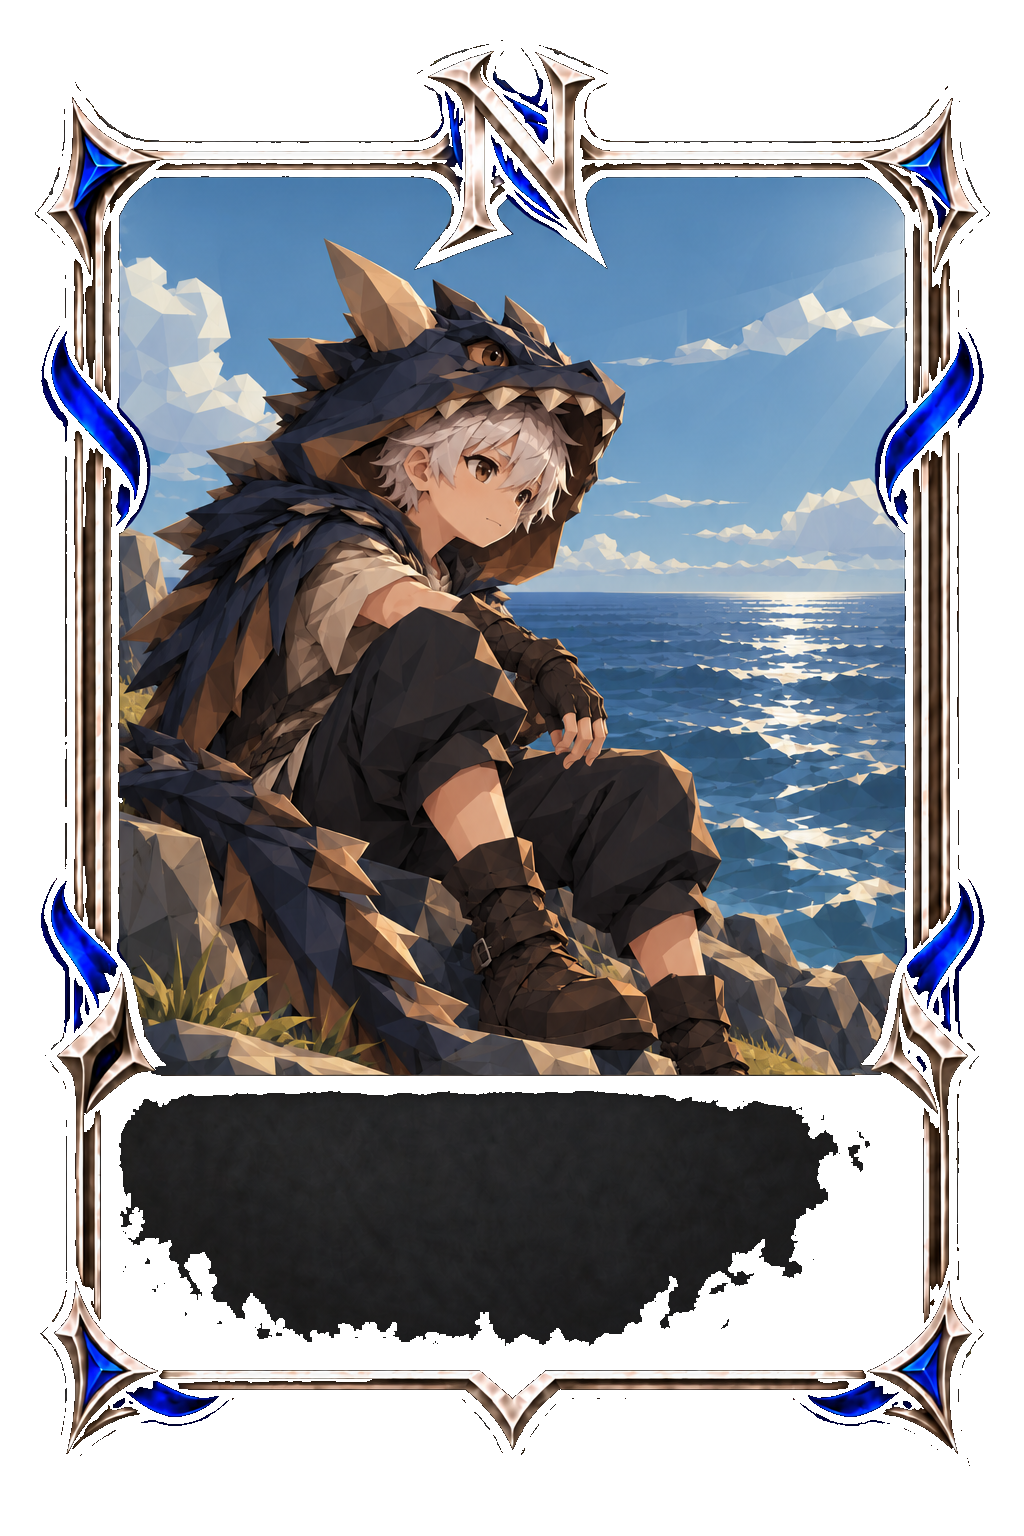
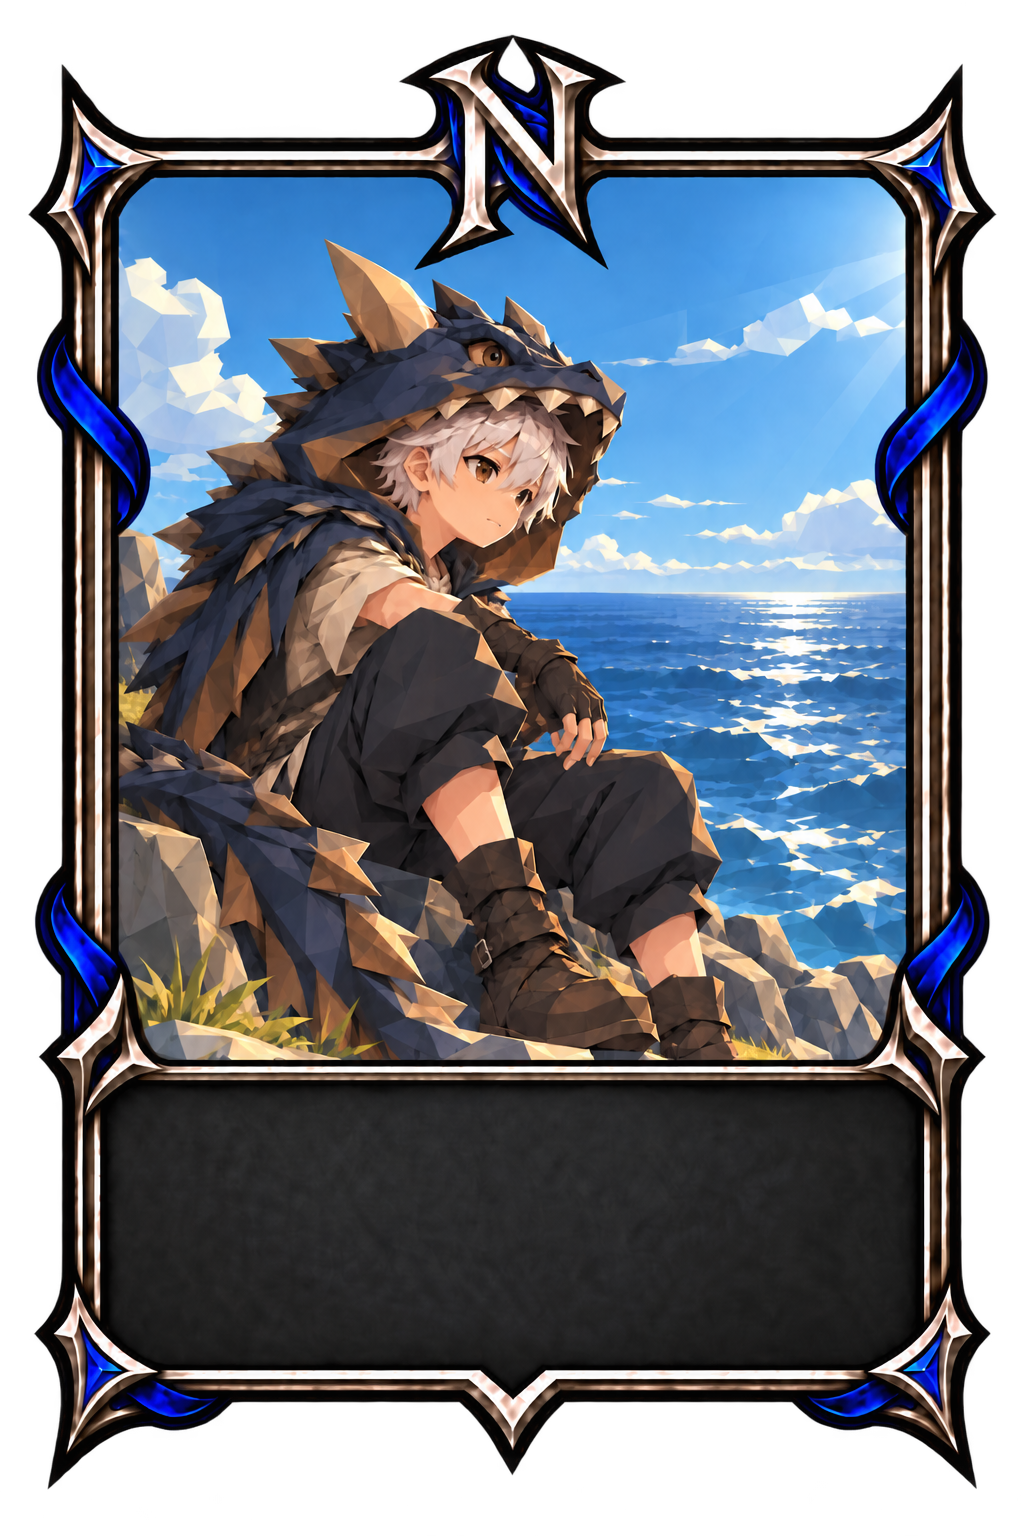
Boutique : nouveau hall et fond des échoppes ; les fonds s'arrêtent à la barre latérale ; images d'Elyan et Kaéliss

diff --git a/src/styles/boutique-accueil.css b/src/styles/boutique-accueil.css
@@ -5,13 +5,13 @@
    sous la lune, bannières à pointe, facettes, un seul accent ambre, équerres dorées.
    ===================================================================== */
 
-/* Fond : la devanture de la boutique (img/Fond/Boutique_fond.webp), assombrie
+/* Fond des échoppes (quand on a cliqué sur une porte) : img/Fond/Boutique2_fond.webp, assombri
    pour que les portes et les articles restent lisibles par-dessus. */
 body.page-boutique:has(.vitrine--accueil) {
   background:
     radial-gradient(ellipse 120% 90% at 50% 40%, transparent 35%, rgba(0,0,0,.8) 100%),
     linear-gradient(180deg, rgba(11,13,18,.5), rgba(11,13,18,.88) 70%),
-    url("/img/Fond/Boutique_fond.webp") center / cover no-repeat fixed,
+    url("/img/Fond/Boutique2_fond.webp") center / cover no-repeat fixed,
     #0b0d12;
 }
 .page-boutique .vitrine--accueil {
@@ -205,12 +205,12 @@ body.page-boutique:has(.vitrine--accueil) {
 .page-boutique .vitrine--accueil .plateau__possede { clip-path: var(--facette); border: 0; box-shadow: inset 0 0 0 1px var(--trait-fort); }
 
 /* ---------- Le hall dans la devanture : chaque porte dans une case de l'image ----------
-   L'image (img/Fond/Boutique_fond.webp, 1779 × 884) devient la scène du hall, en entier et à ses proportions
-   exactes : les portes y sont posées en pourcentages mesurés sur l'image, donc restent dans leur case à toute
-   largeur. Les cartouches du haut restent vides (le monogramme au milieu) ; chaque porte prend une niche dorée
-   (la scène) et le cartouche du dessous (sa description). Le titre de l'échoppe reste lu par les lecteurs d'écran.
-   Mesures (pixels de l'image) : niches y 220 → 624, cartouches du bas y 676 → 760 ;
-   cases x 93 → 550, 645 → 1137, 1227 → 1685. Les tailles suivent la largeur du hall (unités cqi).
+   L'image (img/Fond/Boutique_fond.webp, 1672 × 941) devient la scène du hall, en entier, en grand et à ses
+   proportions exactes : les portes y sont posées en pourcentages mesurés sur l'image, donc restent dans leur
+   case à toute largeur. Le cartouche du haut porte le titre de l'échoppe ; la niche dorée, sa scène, sa
+   description et « Entrer ».
+   Mesures (pixels de l'image) : cartouches y 39 → 193, niches y 229 → 763 ;
+   cases x 88 → 517, 606 → 1064, 1152 → 1589. Les tailles suivent la largeur du hall (unités cqi).
    Trop étroit (moins de 820 px de large) : les portes d'avant, en colonne ou côte à côte. */
 .page-boutique .vitrine--accueil { container: vitrine / inline-size; }
 .page-boutique .vitrine--accueil:has(.hall) { max-width: 1700px; }
@@ -224,46 +224,52 @@ body.page-boutique:has(.vitrine--accueil .hall) {
     container-type: inline-size;
     display: block; position: relative;
     width: 100%; max-width: none; margin: 0 auto;
-    aspect-ratio: 1779 / 884;
+    aspect-ratio: 1672 / 941;
     background: url("/img/Fond/Boutique_fond.webp") center / 100% 100% no-repeat;
     box-shadow: 0 24px 60px rgba(0,0,0,.6);
   }
-  /* Une porte : du haut de la niche au bas du cartouche (y 220 → 760 : 24,89 % et 61,09 % de la hauteur) */
+  /* Une porte : du haut du cartouche au bas de la niche (y 39 → 763 : 4,14 % et 76,94 % de la hauteur) */
   .page-boutique .vitrine--accueil .porte {
-    position: absolute; top: 24.89%; height: 61.09%; left: var(--x); width: var(--l);
+    position: absolute; top: 4.14%; height: 76.94%; left: var(--x); width: var(--l);
     display: grid;
-    /* la niche (74,8 %), le mur (9,6 %), le cartouche du bas (15,6 %) */
-    grid-template-rows: 74.8% 9.6% 15.6%;
-    box-sizing: border-box; min-height: 0; padding: 0; overflow: visible;
+    /* cartouche (21,27 %) : le numéro puis le titre ; le mur (4,97 %) ; la niche : scène, description, « Entrer » */
+    grid-template-rows: 8% 13.27% 4.97% minmax(0, 1fr) auto auto;
+    box-sizing: border-box; min-height: 0; padding: 0 0 3%; overflow: visible;
     clip-path: none; border: 0; background: none; box-shadow: none;
     text-align: center; color: var(--gris);
     transition: none;
   }
-  .page-boutique .vitrine--accueil .porte--boosters   { --x: 5.23%;  --l: 25.69%; }
-  .page-boutique .vitrine--accueil .porte--apparences { --x: 36.26%; --l: 27.66%; }
-  .page-boutique .vitrine--accueil .porte--plateaux   { --x: 68.97%; --l: 25.75%; }
+  .page-boutique .vitrine--accueil .porte--boosters   { --x: 5.26%;  --l: 25.66%; }
+  .page-boutique .vitrine--accueil .porte--apparences { --x: 36.24%; --l: 27.39%; }
+  .page-boutique .vitrine--accueil .porte--plateaux   { --x: 68.9%;  --l: 26.14%; }
   .page-boutique .vitrine--accueil .porte:hover,
   .page-boutique .vitrine--accueil .porte:focus-visible { transform: none; background: none; box-shadow: none; outline: none; }
   .page-boutique .vitrine--accueil .porte__texte { display: contents; }
-  /* Le numéro et le titre : invisibles (le logo reste seul), mais lus par les lecteurs d'écran */
-  .page-boutique .vitrine--accueil .porte__num,
-  .page-boutique .vitrine--accueil .porte__titre,
-  .page-boutique .vitrine--accueil .porte__entrer {
-    position: absolute; width: 1px; height: 1px; overflow: hidden; clip-path: inset(50%); white-space: nowrap;
+  .page-boutique .vitrine--accueil .porte__num {
+    grid-row: 1; align-self: end; padding: 0 8%;
+    font-size: clamp(.5rem, .9cqi, .9rem); letter-spacing: .2em; color: #c9b27a;
+    white-space: nowrap; overflow: hidden; text-overflow: ellipsis;
   }
-  .page-boutique .vitrine--accueil .porte .scene { grid-row: 1; min-height: 0; padding-bottom: 2.2cqi; }
-  /* La description, gravée dans le cartouche du bas */
-  .page-boutique .vitrine--accueil .porte__desc {
-    grid-row: 3; align-self: center; padding: 0 10%;
-    font-size: clamp(.72rem, 1.18cqi, 1.15rem); line-height: 1.3;
-    color: #e6d9b8; text-shadow: 0 1px 6px rgba(0,0,0,.9);
+  .page-boutique .vitrine--accueil .porte__titre {
+    grid-row: 2; align-self: center; padding: 0 8%;
+    font-size: clamp(.9rem, 1.95cqi, 2rem); line-height: 1.15;
+    color: #f2ead8; text-shadow: 0 2px 8px rgba(0,0,0,.8);
     transition: color .2s ease, text-shadow .2s ease;
   }
-  .page-boutique .vitrine--accueil .porte:hover .porte__desc,
-  .page-boutique .vitrine--accueil .porte:focus-visible .porte__desc { color: var(--or-vif); text-shadow: 0 0 14px rgba(243,207,124,.4); }
-  /* La lumière de la niche : douce, plus vive au survol (la niche : les 74,8 % du haut de la porte) */
+  .page-boutique .vitrine--accueil .porte:hover .porte__titre,
+  .page-boutique .vitrine--accueil .porte:focus-visible .porte__titre { color: var(--or-vif); text-shadow: 0 0 18px rgba(243,207,124,.45); }
+  .page-boutique .vitrine--accueil .porte .scene { grid-row: 4; min-height: 0; padding-bottom: 2.4cqi; }
+  .page-boutique .vitrine--accueil .porte__desc {
+    grid-row: 5; padding: 0 9%;
+    font-size: clamp(.75rem, 1.3cqi, 1.25rem); line-height: 1.35; color: var(--texte-doux);
+  }
+  .page-boutique .vitrine--accueil .porte__entrer {
+    grid-row: 6; justify-self: center; margin-top: .9cqi;
+    font-size: clamp(.6rem, .95cqi, .95rem);
+  }
+  /* La lumière de la niche (y 229 → 763 : à 26,24 % du haut de la porte) : douce, plus vive au survol */
   .page-boutique .vitrine--accueil .porte::before {
-    content: ""; display: block; position: absolute; inset: 0 0 25.2%; z-index: -1; pointer-events: none; opacity: 1;
+    content: ""; display: block; position: absolute; inset: 26.24% 0 0; z-index: -1; pointer-events: none; opacity: 1;
     background:
       radial-gradient(ellipse 70% 40% at 50% 100%, rgba(217,164,65,.16), transparent 70%),
       radial-gradient(ellipse 60% 50% at 50% 0, rgba(190,205,240,.06), transparent 70%);
@@ -272,30 +278,30 @@ body.page-boutique:has(.vitrine--accueil .hall) {
   }
   .page-boutique .vitrine--accueil .porte:hover::before,
   .page-boutique .vitrine--accueil .porte:focus-visible::before {
-    inset: 0 0 25.2%; opacity: 1;
+    inset: 26.24% 0 0; opacity: 1;
     background:
       radial-gradient(ellipse 80% 50% at 50% 100%, rgba(243,207,124,.32), transparent 70%),
       radial-gradient(ellipse 70% 60% at 50% 0, rgba(243,207,124,.12), transparent 70%);
     box-shadow: inset 0 0 0 2px rgba(243,207,124,.55), inset 0 0 40px rgba(217,164,65,.18);
   }
-  .page-boutique .vitrine--accueil .porte::after { inset: 0 0 25.2%; }
-  .page-boutique .vitrine--accueil .porte__annonce { top: 4%; right: 4%; font-size: clamp(.55rem, .8cqi, .78rem); }
+  .page-boutique .vitrine--accueil .porte::after { inset: 26.24% 0 0; }
+  .page-boutique .vitrine--accueil .porte__annonce { top: 28.5%; right: 5%; font-size: clamp(.55rem, .85cqi, .8rem); }
   /* Les scènes, en grand dans la niche */
-  .page-boutique .vitrine--accueil .scene::after { bottom: 1.4cqi; height: 2.4cqi; }
-  .page-boutique .vitrine--accueil .scene--boosters .scene__booster { height: 88%; max-height: 19cqi; }
+  .page-boutique .vitrine--accueil .scene::after { bottom: 1.6cqi; height: 2.4cqi; }
+  .page-boutique .vitrine--accueil .scene--boosters .scene__booster { height: 88%; max-height: 18cqi; }
   .page-boutique .vitrine--accueil .scene--boosters .scene__dos {
-    width: 8.4cqi; margin-left: -4.2cqi; bottom: 5.8cqi;
-    transform: translateX(calc(var(--k) * 4.2cqi)) rotate(calc(var(--k) * 12deg)) translateY(calc(var(--k) * var(--k) * .7cqi - 1.6cqi));
+    width: 8cqi; margin-left: -4cqi; bottom: 6cqi;
+    transform: translateX(calc(var(--k) * 4cqi)) rotate(calc(var(--k) * 12deg)) translateY(calc(var(--k) * var(--k) * .7cqi - 1.5cqi));
   }
   .page-boutique .vitrine--accueil .porte:hover .scene__dos {
-    transform: translateX(calc(var(--k) * 5.6cqi)) rotate(calc(var(--k) * 18deg)) translateY(calc(var(--k) * var(--k) * 1cqi - 3cqi));
+    transform: translateX(calc(var(--k) * 5.4cqi)) rotate(calc(var(--k) * 18deg)) translateY(calc(var(--k) * var(--k) * 1cqi - 3cqi));
   }
-  .page-boutique .vitrine--accueil .scene__blason { width: 80%; height: min(70%, 14cqi); gap: 1.3cqi; margin-bottom: .6cqi; }
-  .page-boutique .vitrine--accueil .scene__titre { font-size: clamp(1rem, 2.5cqi, 2.4rem); }
+  .page-boutique .vitrine--accueil .scene__blason { width: 82%; height: min(80%, 14cqi); gap: 1.3cqi; margin-bottom: .5cqi; }
+  .page-boutique .vitrine--accueil .scene__titre { font-size: clamp(1rem, 2.4cqi, 2.3rem); }
   .page-boutique .vitrine--accueil .scene__couleurs { gap: 1cqi; }
-  .page-boutique .vitrine--accueil .scene__couleurs i { width: 1.8cqi; height: 1.8cqi; }
+  .page-boutique .vitrine--accueil .scene__couleurs i { width: 1.7cqi; height: 1.7cqi; }
   .page-boutique .vitrine--accueil .scene__plateau { width: 84%; }
-  .page-boutique .vitrine--accueil .scene__plateau--fond { width: 66%; bottom: 5.4cqi; }
+  .page-boutique .vitrine--accueil .scene__plateau--fond { width: 66%; bottom: 5.6cqi; }
 }
 
 /* ---------- Téléphones ---------- */

diff --git a/src/components/BarreLaterale.jsx b/src/components/BarreLaterale.jsx
@@ -11,7 +11,7 @@
 //  data-place : la place du bouton dans la barre du téléphone ; « menu » : dans le menu Plus.
 //  En haut à droite de l'écran (ordinateur) : le panneau MJ, pour les MJ.
 // =====================================================================
-import { useEffect, useState } from 'react';
+import { useEffect, useRef, useState } from 'react';
 import { Link, useLocation } from 'react-router-dom';
 import { NOCTHEMAR_SITE, lienSite } from '../lib/lienSite.js';
 import { useAuth, connexionDiscord, deconnexion } from '../lib/auth.js';
@@ -151,11 +151,32 @@ function Entree({ icone, libelle, chemin, actif, place }) {
   );
 }
 
+// Le bord droit de la barre (--hud, sur <html>) : les fonds des écrans commencent là, au lieu de passer
+// derrière la barre (styles/barre-jeu.css). Suivi en direct : la largeur de la barre change avec l'écran.
+function useBordDeLaBarre(barre) {
+  useEffect(() => {
+    const el = barre.current;
+    if (!el) return undefined;
+    const mesurer = () => document.documentElement.style.setProperty('--hud', `${Math.round(el.getBoundingClientRect().right)}px`);
+    mesurer();
+    const suivi = new ResizeObserver(mesurer);
+    suivi.observe(el);
+    window.addEventListener('resize', mesurer);
+    return () => {
+      suivi.disconnect();
+      window.removeEventListener('resize', mesurer);
+      document.documentElement.style.removeProperty('--hud');
+    };
+  }, [barre]);
+}
+
 export default function BarreLaterale() {
   const { joueur, chargement } = useAuth();
   const { pathname } = useLocation();
+  const barre = useRef(null);
+  useBordDeLaBarre(barre);
   return (
-    <nav className="barre" aria-label="Navigation">
+    <nav className="barre" aria-label="Navigation" ref={barre}>
       {FOND}
 
       {/* Le portrait : vers le profil, ou la connexion Discord */}

diff --git a/src/styles/barre-jeu.css b/src/styles/barre-jeu.css
@@ -712,3 +712,18 @@
   .barre__bourse-or .bourse-etincelles { grid-area: 1 / 1; position: absolute; inset: 0; width: auto; height: auto; margin: 0; }
   .barre__bourse-or .etincelle { --taille: 8px !important; }
 }
+
+/* Les fonds des écrans s'arrêtent à la barre (ordinateur) : inutile de peindre derrière, et l'image n'est plus
+   agrandie pour remplir toute la fenêtre. --hud : le bord droit de la barre, mesuré par BarreLaterale.jsx.
+   - le fond posé sur body est recopié dans body::after (le grain de index.css, invisible), recadré sur la zone
+     à droite de la barre ;
+   - les fonds posés sur body::before (Profil) commencent eux aussi au bord de la barre. */
+@media (min-width: 701px) {
+  body.has-rail::after {
+    left: var(--hud, 0px);
+    z-index: -2; opacity: 1; mix-blend-mode: normal;
+    background: inherit;
+    background-attachment: scroll;
+  }
+  body.has-rail::before { left: var(--hud, 0px); }
+}
